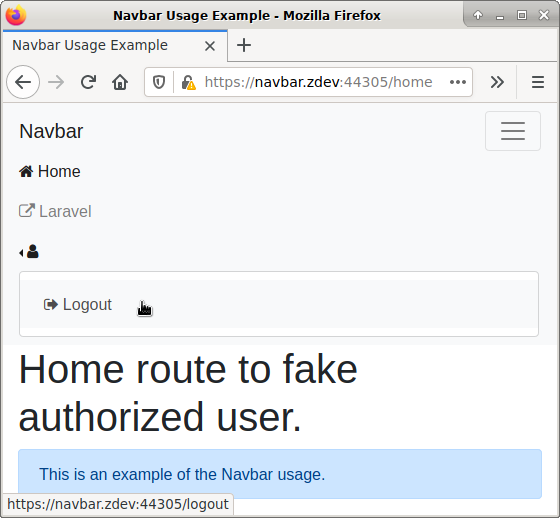
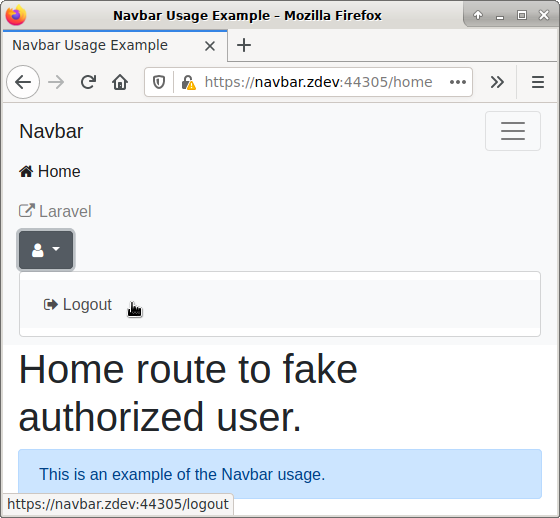
Improved dropdown for Demo.

diff --git a/laravel/app/Http/Navigation/NavbarBuilder.php b/laravel/app/Http/Navigation/NavbarBuilder.php
@@ -29,19 +29,20 @@ class NavbarBuilder extends NavbarBuilderCore
             $element,
             [
                 'id' => $id,
-                'href' => $element->entity->href,
-                'class' => Str::postfix($element->entity->class, 'nav-link dropdown-toggle'),
+                'type' => 'button',
+                'class' => Str::prefix($element->entity->class, 'btn btn-secondary dropdown-toggle'),
                 'data-toggle' => 'dropdown',
-                'role' => 'button',
                 'aria-haspopup' => 'true',
                 'aria-expanded' => 'false',
             ]
         );
 
         return
-            '<li class="nav-item dropleft">'.$this->renderLink($element, $attrs).
-            '<ul class="dropdown-menu" aria-labelledby="'.$id.'">'.$this->renderElements($element->content).'</ul>'.
-            '</li>';
+            '<div class="dropdown">'
+            .Html::tag('button', $this->renderLinkBody($element), $attrs).
+            '<div class="dropdown-menu dropdown-menu-right" aria-labelledby="'.$id.'">'
+            .$this->renderElements($element->content).'</div>'.
+            '</div>';
     }
 
     public function render_link(NavbarElement $element, array $link_attrs_overwrite = []): string

diff --git a/readme.md b/readme.md
@@ -38,6 +38,8 @@ Append to `/etc/hosts`.
 
 ## Demo
 
+Visit [https://navbar.zdev:44305/](https://navbar.zdev:44305/) to play with navigation on your development environment.
+
 ### Index Page
 
 ![](./readme/pictures/demo/index.png)
